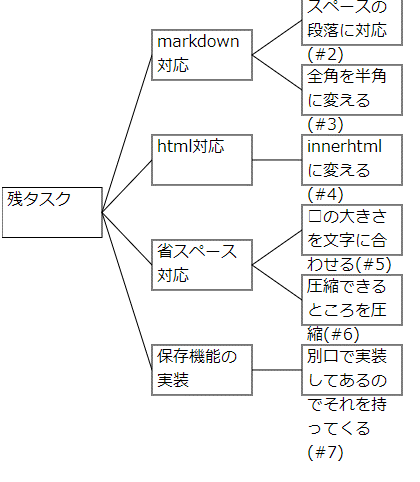
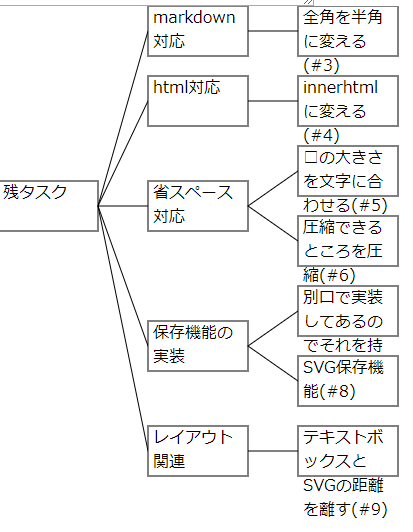
Fix #2 markdown互換の箇条書き記法に変更

Changed region(s): [[0.0, 0.0, 0.9879, 0.9959], [0.6392, 0.4979, 0.6683, 0.529]]

diff --git a/mindmap.html b/mindmap.html
@@ -43,7 +43,6 @@
         console.log(text)
         nodeArray = parseText(text);
         nodeArray = decideNodePosition(nodeArray);
-        console.log(nodeArray);
 
         for(var i = 0; i < nodeArray.length; i++)
         {
@@ -145,15 +144,21 @@
 
         for(var i = 0; i < textArray.length; i++)
         {
-            var level = 0;
+            var level = -1;
             var text = textArray[i];
 
             for(var j = 0; j < text.length; j++)
             {
-                if(text.startsWith("*"))
+                if(text.startsWith("  "))
+                {
+                    text = text.substring(2);
+                    level++;
+                }
+                else if(text.startsWith("*"))
                 {
                     text = text.substring(1);
                     level++;
+                    break;
                 }
                 else
                 {

diff --git a/README.md b/README.md
@@ -2,3 +2,17 @@
 simple mind map generator works on the browser
 
  ![tasks](https://github.com/miyatsuki/js-mindmap/blob/master/tasks.png "残りタスク")
+
+* 残タスク
+  * markdown対応
+    * 全角を半角に変える(#3)
+  * html対応
+    * innerhtmlに変える(#4)
+  * 省スペース対応
+    * □の大きさを文字に合わせる(#5)
+    * 圧縮できるところを圧縮(#6)
+  * 保存機能の実装
+    * 別口で実装してあるのでそれを持ってくる(#7)
+    * SVG保存機能(#8)
+  * レイアウト関連
+    * テキストボックスとSVGの距離を離す(#9)
